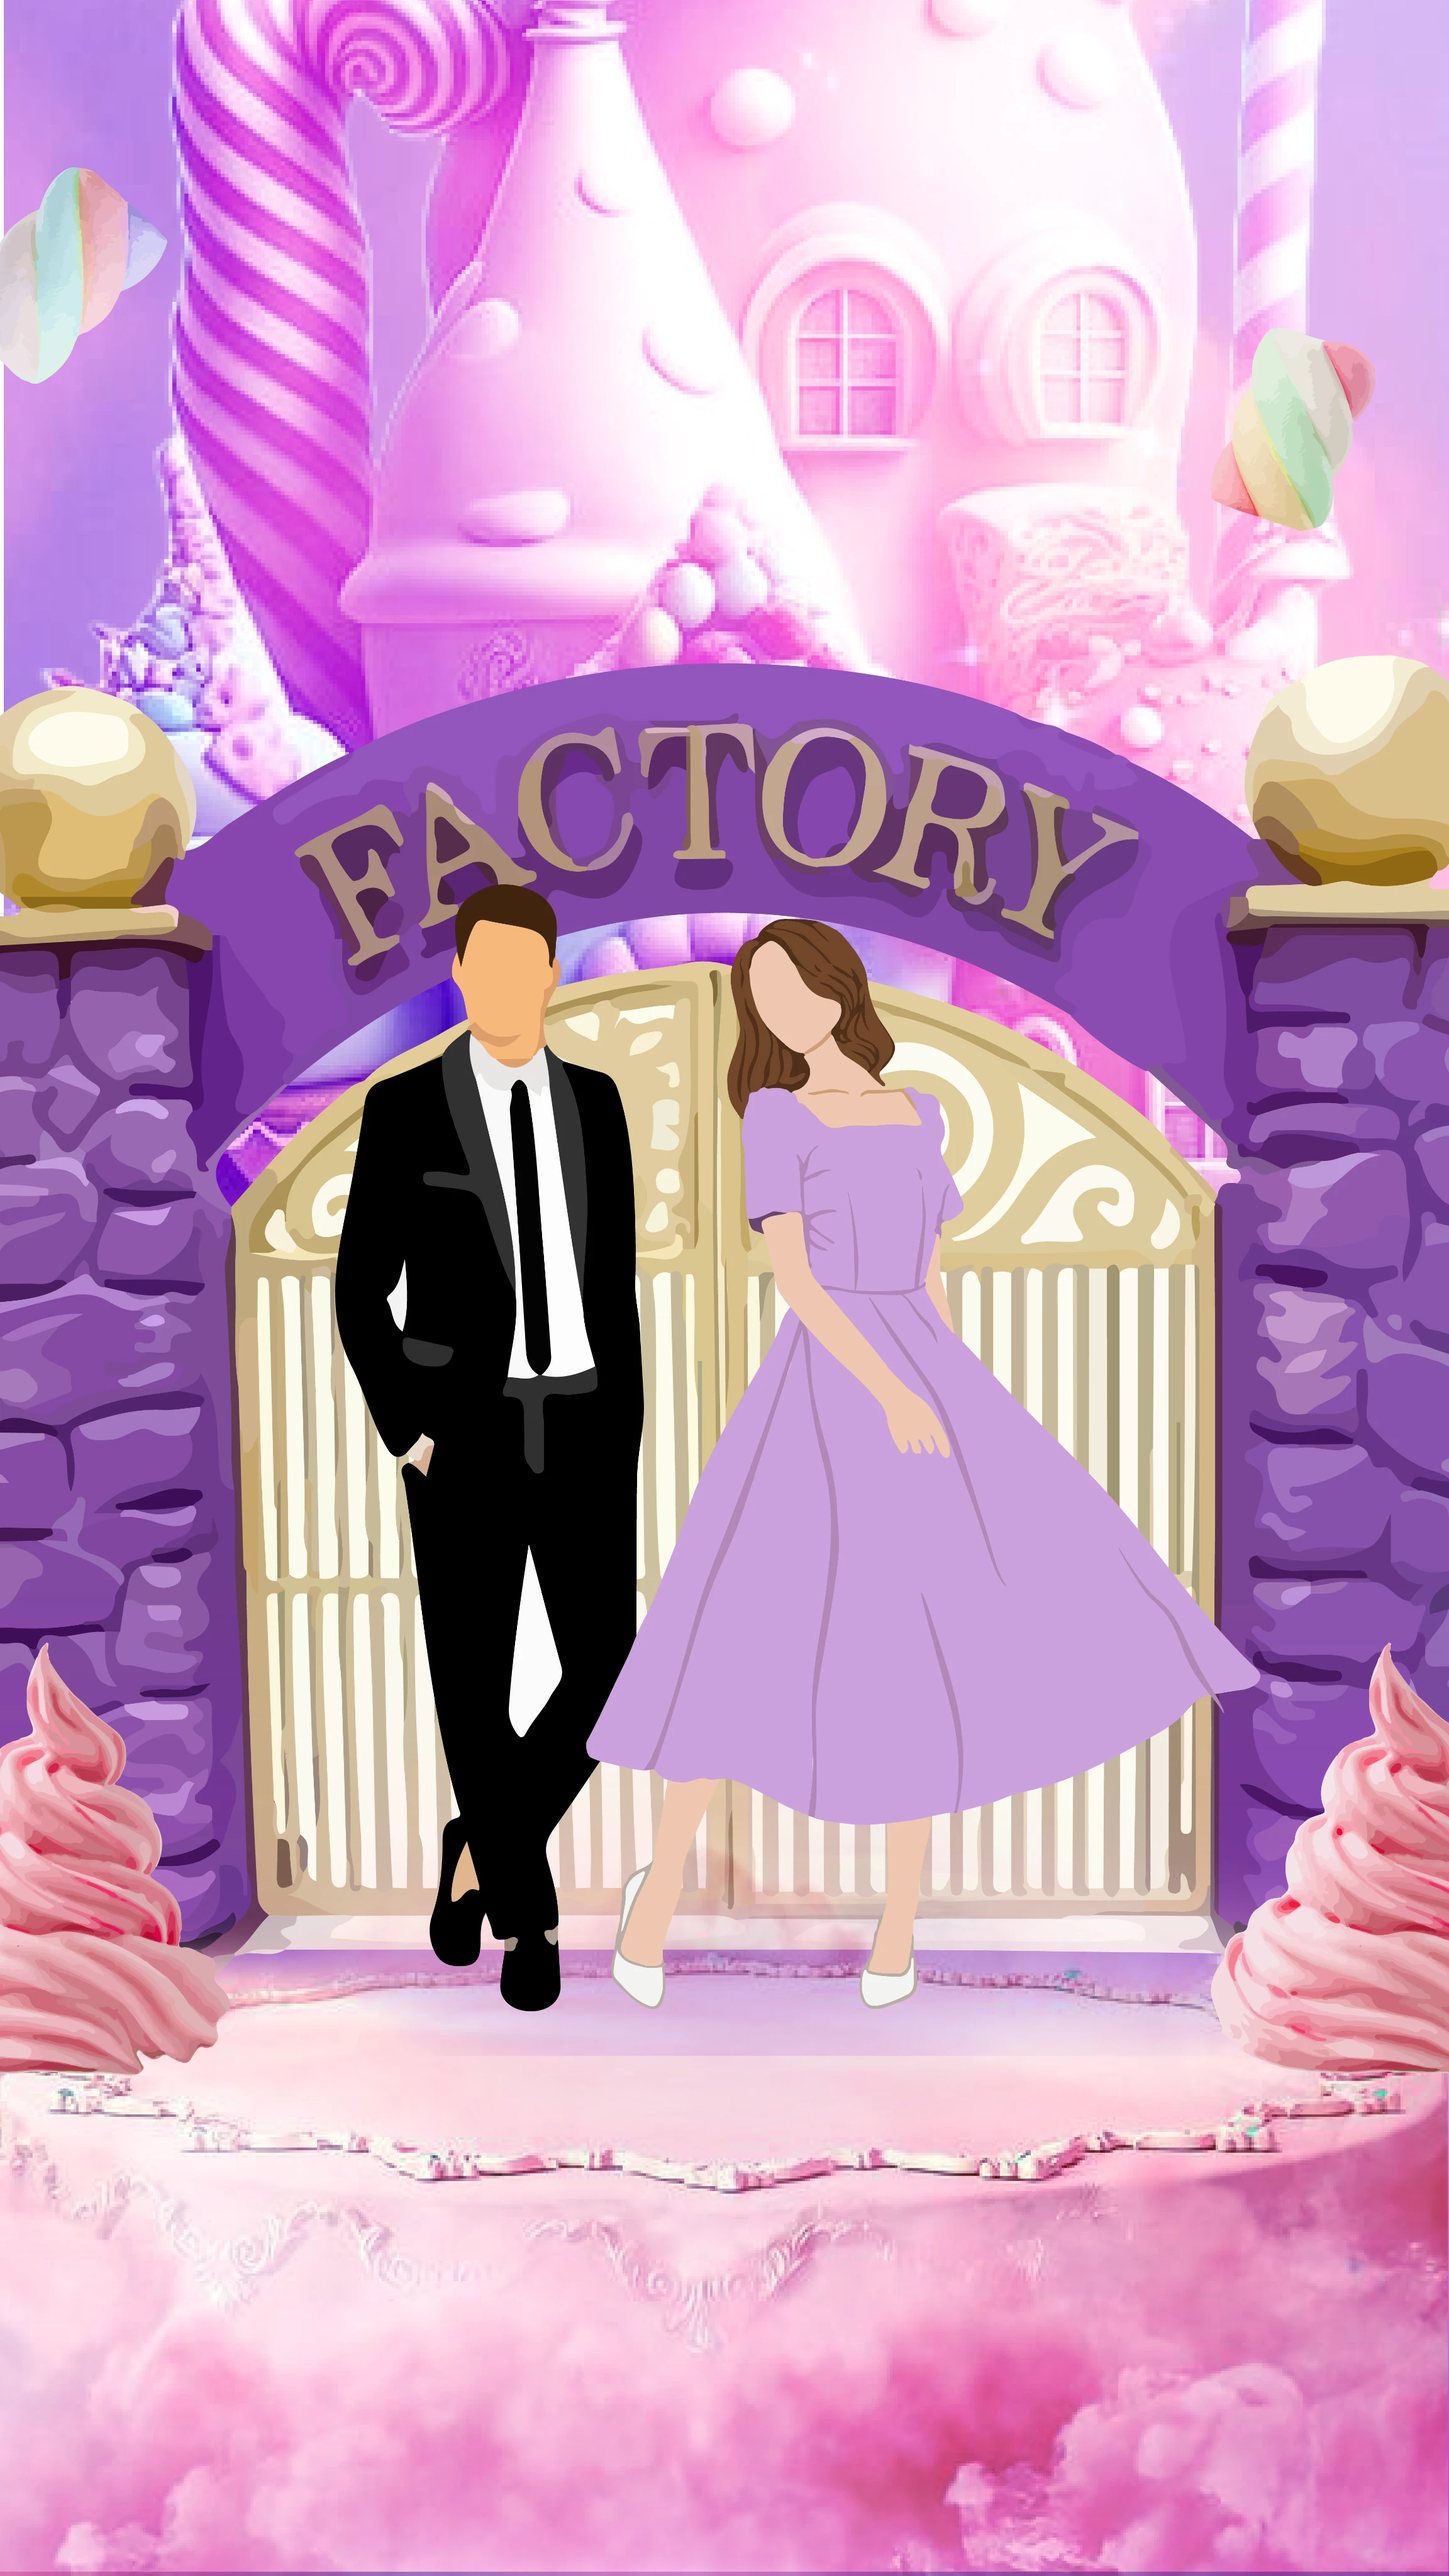
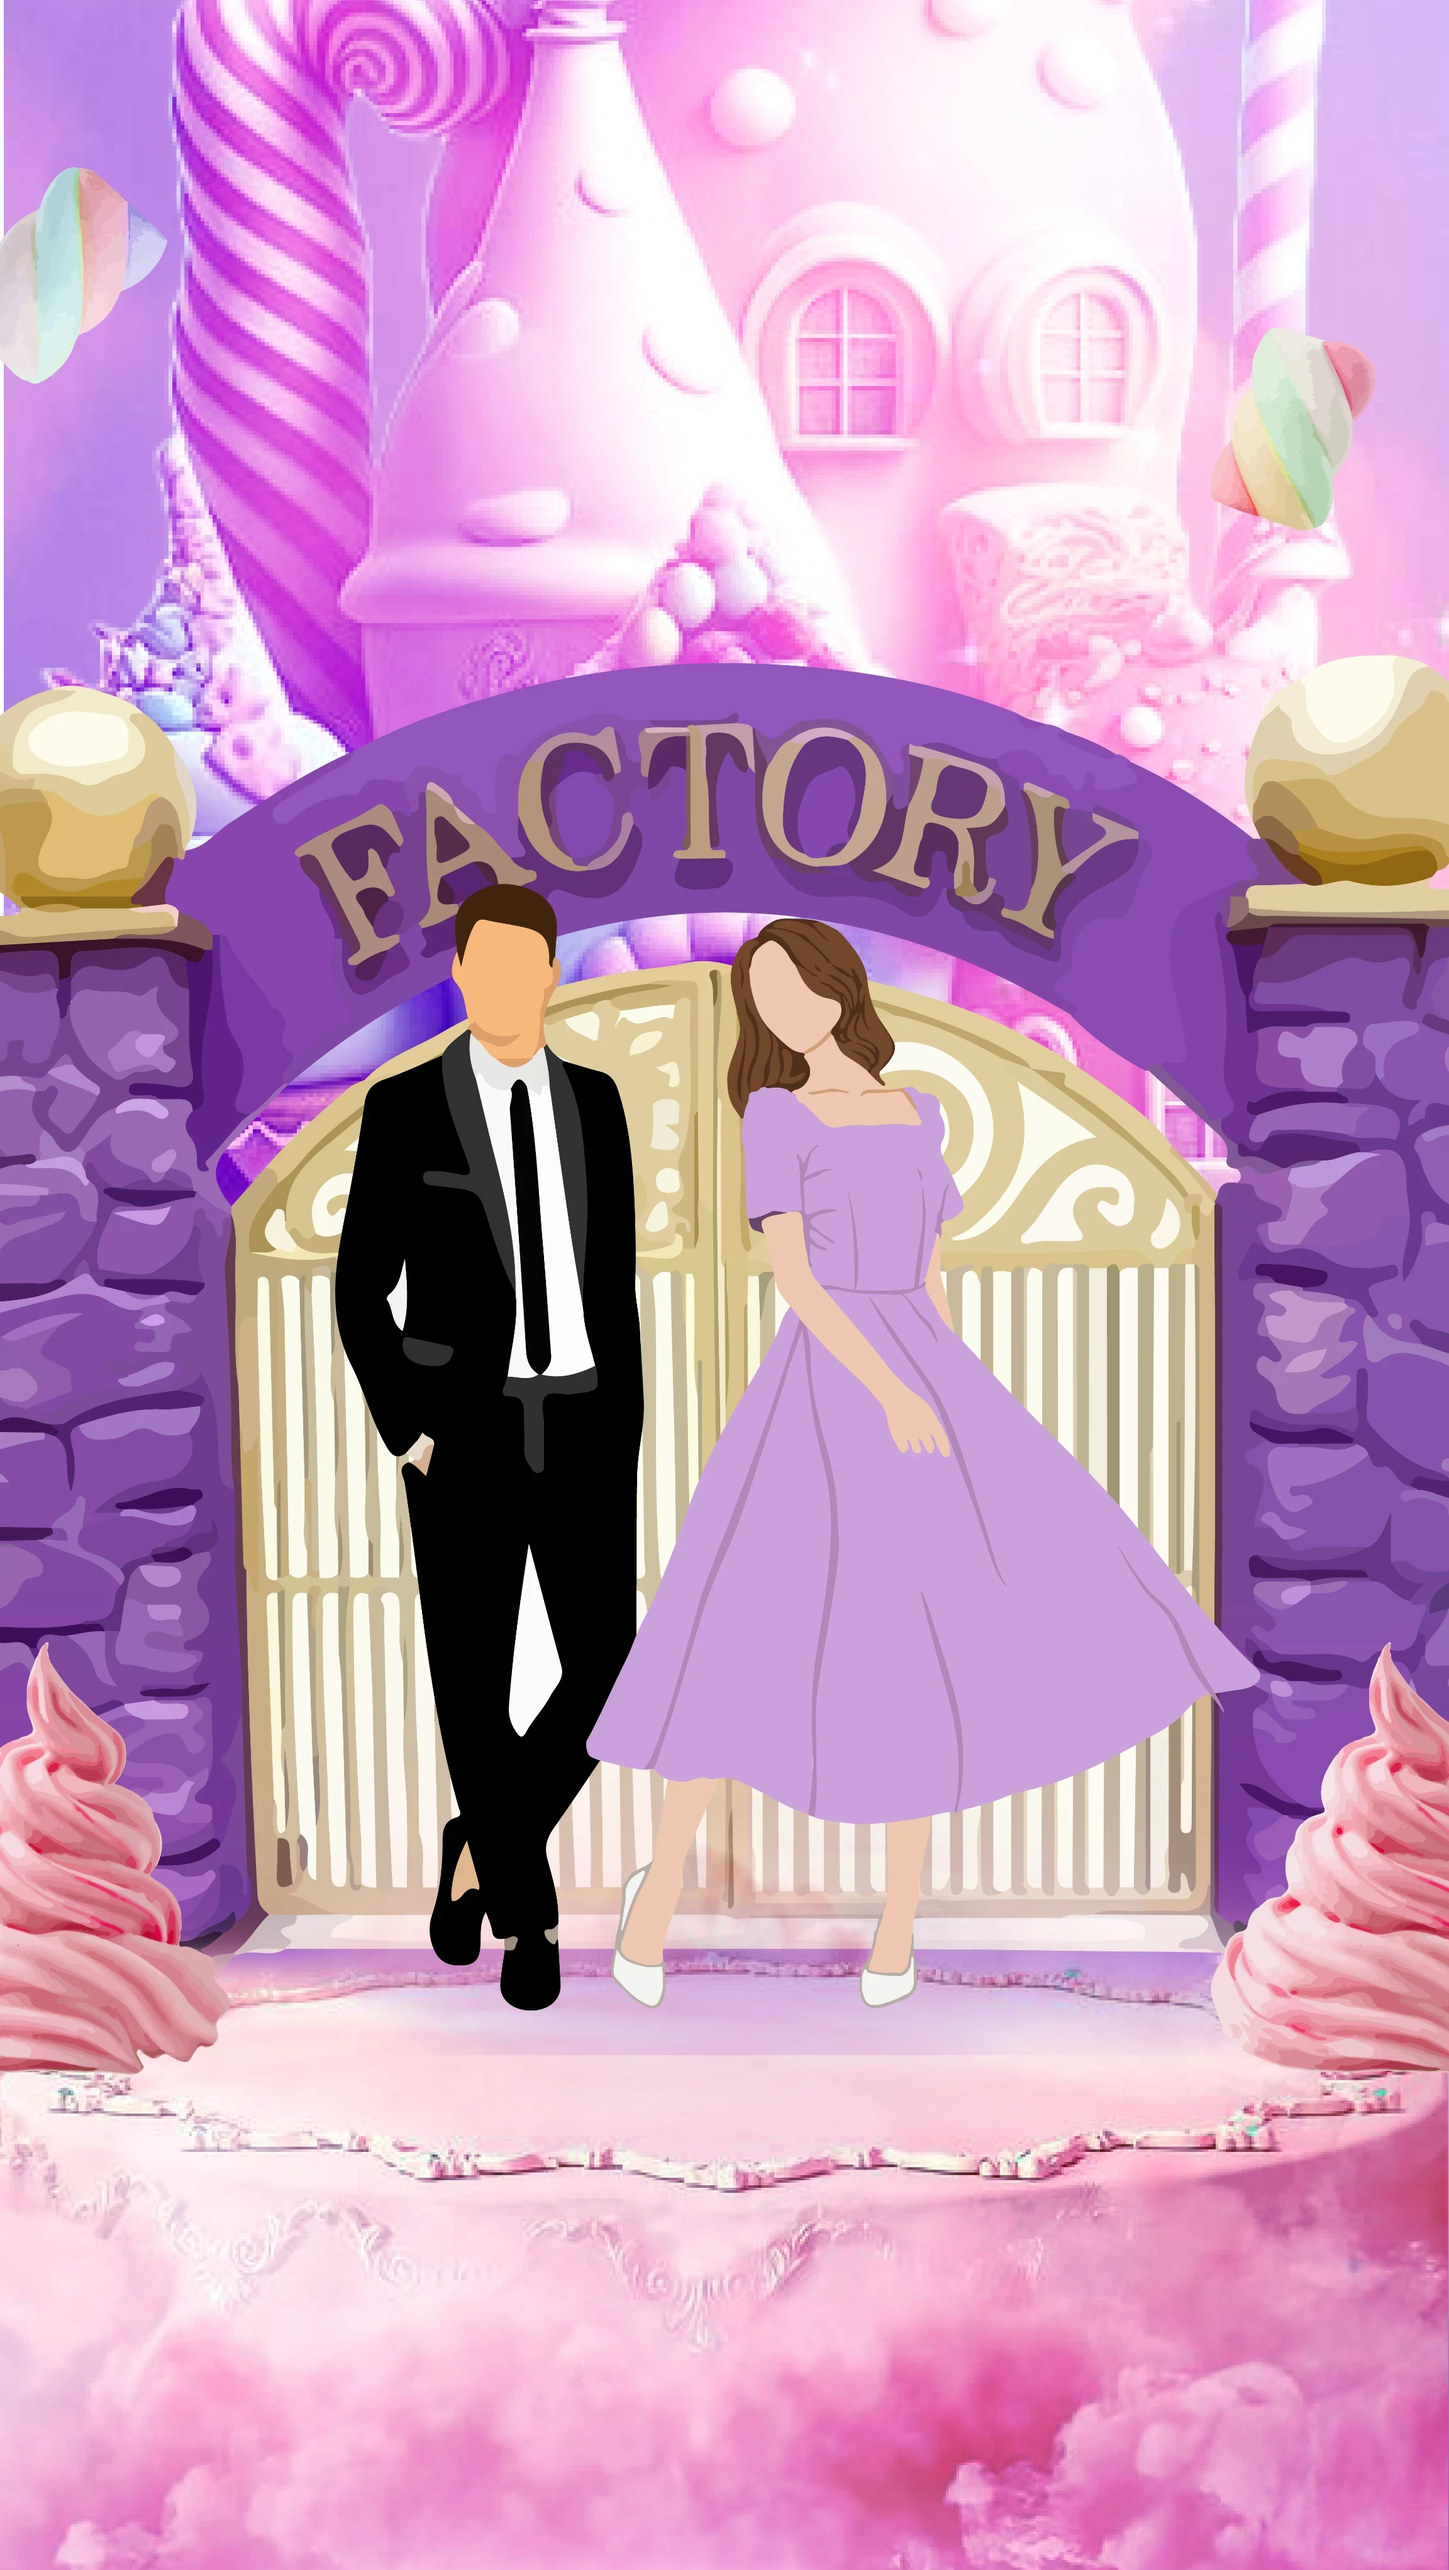
fixing few assets

diff --git a/index.html b/index.html
@@ -185,16 +185,13 @@
           padding-top: 10%;
         }
         #overlay-contents {
-          bottom: 7.5%;
+          bottom: 6%;
           left: 73%;
         }
         .dear-box {
-          width: 30%;
+          width: 27%;
           padding-top: 29%;
           transform: translateY(14vw);
-        }
-        .dear-box h3 {
-          transform: translateY(-18vw);
         }
         .bg {
           padding-top: 60%;
@@ -407,7 +404,7 @@
     </div>
     <!-- break -->
     <div
-      class="bg tw-bg-[url('assets/slide_6/bg6.webp')] md:tw-bg-[url('assets/desktop/bg6_ds.webp')] md:tw-pt-[80%]"
+      class="bg tw-bg-[url('assets/slide_6/bgg6.webp')] md:tw-bg-[url('assets/desktop/bg6_ds.webp')] md:tw-pt-[80%]"
       id="6"
     >
       <section class="tw-text-center tw-top-[5%] tw-px-[1vw] md:tw-px-[25vw] md:tw-top-[0%]">
@@ -653,11 +650,10 @@
         id="overlay-contents"
         class="d-flex flex-column justify-content-center align-items-center"
       >
-        <div class="py-5"></div>
-        <div class="py-3 ds-com"></div>
-        <div class="tw-bg-[url('assets/cover/bgcover_1.webp')] dear-box tw-translate-y-[10vw] md:tw-translate-y-[8vw]">
+        <!-- <div class="tw-py-[4vh]"></div> -->
+        <div class="tw-bg-[url('assets/cover/bgcover_1.webp')] dear-box tw-translate-y-[10vw] md:tw-translate-y-[11vw]">
           <h4 class="tw-translate-y-[-12vw] text-light mobile-com">Tabita</h4>
-          <h2 class="tw-translate-y-[-12vw] text-light ds-com">Tabita</h2>
+          <h3 class="tw-translate-y-[-12vw] text-light ds-com">Tabita</h>
         </div>
         <p
           class="mb-0 mt-2 fw-light h6"
